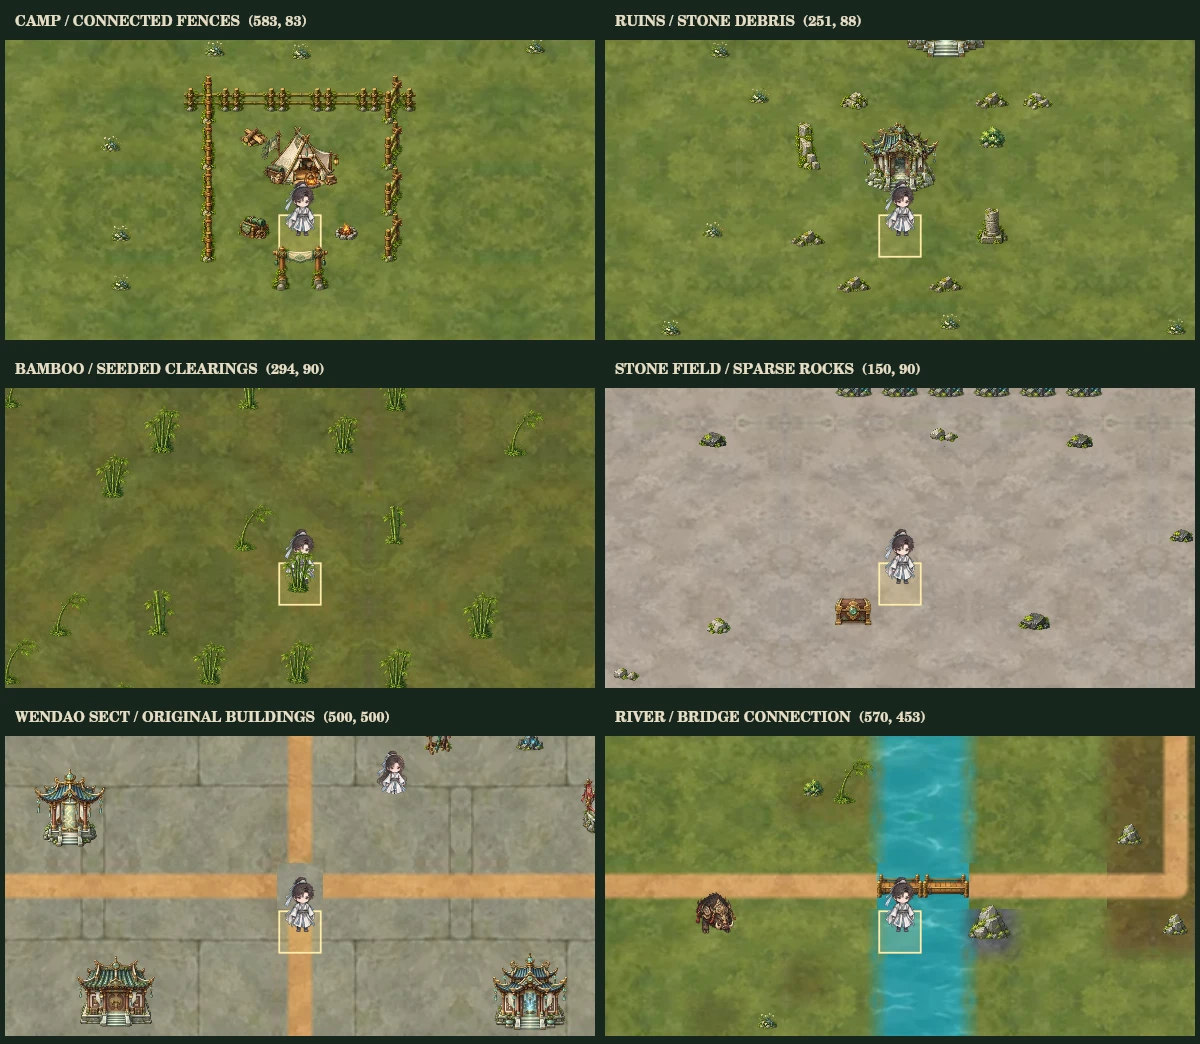
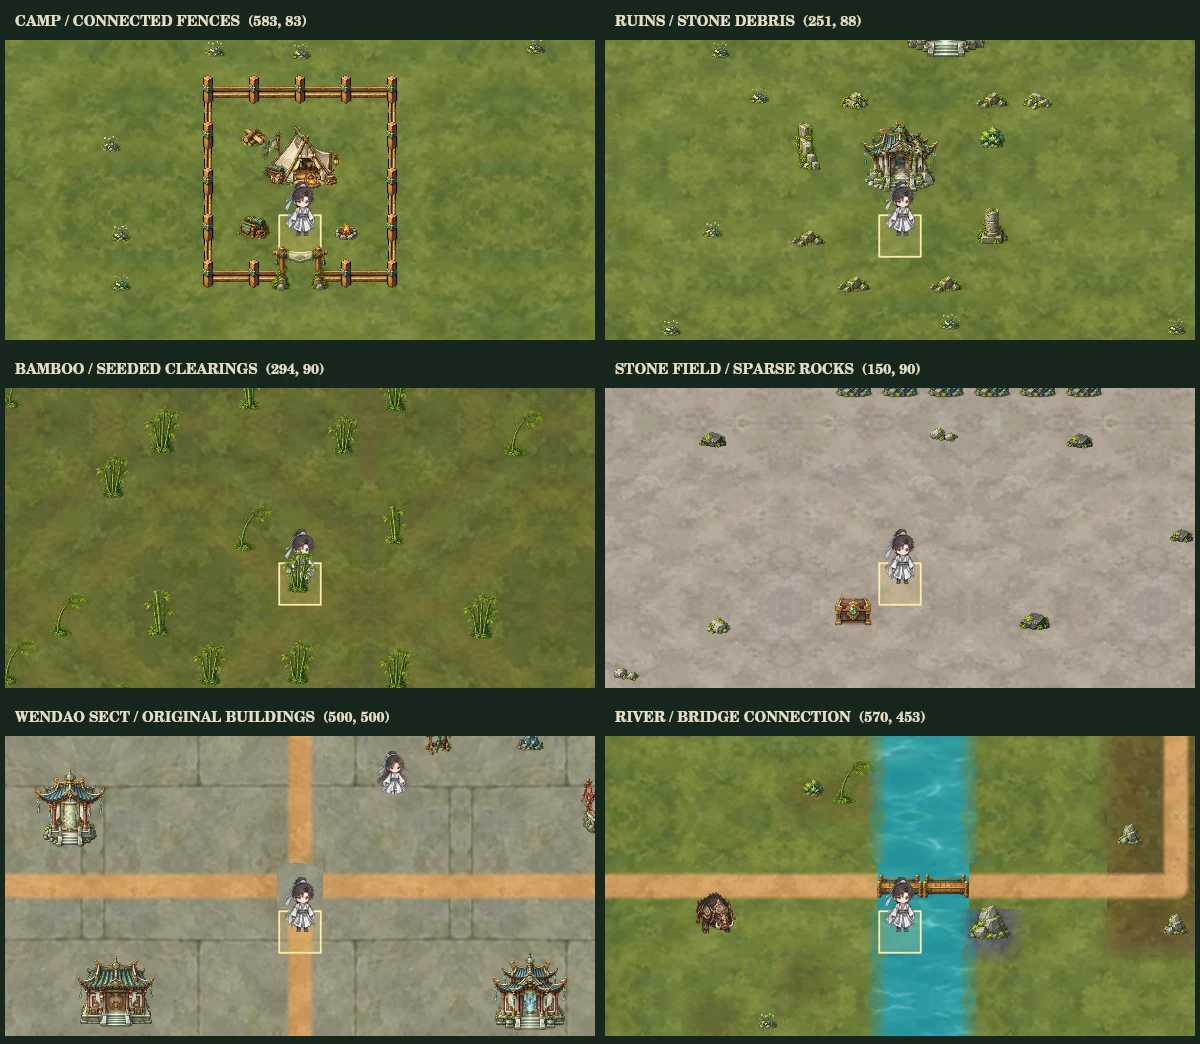
Regenerate modular fence and wall art with neighbour-based connections
Replace overlapping complete fence/wall panels with newly generated centre posts, four half-arms and low joints. Resolve all sixteen cardinal connection states from adjacent cells: match materials, connect gate sides along the correct axis, omit tall wall posts on straight runs and retract absent arms. Deduplicate corners and use a one-cell viewport halo to preserve connections across camera/chunk boundaries while respecting fog. Complete camp front fencing around its open gate and sect wall connections beside the four entrances.

Add two transparent 384x256 WebP atlases (71,586 bytes combined), final generation prompts, 32-state artwork previews and native Canvas seam checks. Preserve all fifteen original building images and existing ground materials.

Validation: all 1,854 tests passed; code audit, static version check and diff check passed. Both materials' N/S and E/W pixel seams have solid coverage; mirrored ground seam maximum difference remains zero.

Changed region(s): [[0.1542, 0.0613, 0.3392, 0.2759]]

diff --git a/public/world/world-scenery.js b/public/world/world-scenery.js
@@ -6,6 +6,25 @@
   const ROADS=new Set(['road','bridge','broken-bridge']),WATER=new Set(['water','ocean']);
   const DRY=new Set(['grass','courtyard','mountain','bamboo','forest','desert','snow','swamp','stone','volcano','beach']);
   const isSite=o=>['building','structure','realm'].includes(o.kind);
+  const isBarrier=p=>p.prop==='fence'||p.prop==='wall',cell=p=>Math.floor(p.x)+','+Math.floor(p.y);
+  // A block owns one centre and only the half-arms leading to compatible neighbours.
+  // Resolve after visibility/occupancy, but before viewport clipping (one-cell halo).
+  function connect(items){
+    const nodes=new Map(),unique=[];
+    for(const p of items){
+      if(isBarrier(p)||p.prop==='gate'){const k=cell(p);if(nodes.has(k))continue;nodes.set(k,p);}
+      unique.push(p);
+    }
+    return unique.map(p=>{
+      if(!isBarrier(p))return p;
+      let mask=0;
+      for(let i=0;i<4;i++){
+        const [dx,dy]=STEPS[i],n=nodes.get((Math.floor(p.x)+dx)+','+(Math.floor(p.y)+dy));
+        if(n?.prop===p.prop||n?.prop==='gate'&&((['east','west'].includes(n.direction)?5:10)&(1<<i)))mask|=1<<i;
+      }
+      return {...p,mask,post:p.prop==='fence'||mask!==5&&mask!==10};
+    });
+  }
   function create(world){
     const W=world;
     function topology(x,y,t,events={},visible=()=>true){
@@ -43,8 +62,8 @@
         for(const item of items){item.x+=((h>>>8)%101/100-.5)*.3;item.y+=((h>>>17)%101/100-.5)*.2;}
       }
       // Sect walls and gates have actual north/east/south/west illustrations.
-      if(Math.abs(dx)===r&&Math.abs(dy)<=r&&Math.abs(dy)>1&&t==='courtyard')add('wall',46,dx>0?'east':'west');
-      if(Math.abs(dy)===r&&Math.abs(dx)<=r&&Math.abs(dx)>1&&t==='courtyard')add('wall',46,dy>0?'south':'north');
+      if(Math.abs(dx)===r&&Math.abs(dy)<=r&&dy!==0&&t==='courtyard')add('wall',40);
+      if(Math.abs(dy)===r&&Math.abs(dx)<=r&&dx!==0&&t==='courtyard')add('wall',40);
       if((Math.abs(dx)===r&&dy===0)||(Math.abs(dy)===r&&dx===0))add('gate',66,dx===r?'east':dx===-r?'west':dy===r?'south':'north');
       if(t==='courtyard'&&Math.abs(dx)>=6&&Math.abs(dx)<=8&&Math.abs(dy)>=6&&Math.abs(dy)<=8&&(dx+dy)%2===0)add('garden',38);
       if(t==='courtyard'&&((Math.abs(dx)===8&&dy%4===0)||(Math.abs(dy)===8&&dx%4===0)))add('lantern',29);
@@ -56,15 +75,16 @@
       // Every existing building has one front-facing image. Its door and surrounding
       // layout stay south-facing; only fences, gates and other props have variants.
       const turn=0;
-      const add=(prop,dx,dy,size=34,facing='south',joinDirection=null)=>{
+      const add=(prop,dx,dy,size=34,facing='south')=>{
         for(let i=0;i<turn;i++){const a=dx;dx=-dy;dy=a;}
         const x=o.x+dx,y=o.y+dy,tx=Math.floor(x+.5),ty=Math.floor(y+.5);
         if(!W.inside(tx,ty)||!DRY.has(W.terrain(tx,ty,events))||W.terrain(tx,ty,events)==='road'||W.objectAt(tx,ty))return;
-        items.push({x:x+.5,y:y+.6,prop,size,direction:['fence','gate','wall','broken-wall','pillar','rubble','supplies'].includes(prop)?DIRECTIONS[(DIRECTIONS.indexOf(facing)+turn)%4]:null,...(joinDirection?{joinDirection}:{}),owner:o.id});
+        items.push({x:x+.5,y:y+.6,prop,size,direction:['gate','broken-wall','pillar','rubble','supplies'].includes(prop)?DIRECTIONS[(DIRECTIONS.indexOf(facing)+turn)%4]:null,owner:o.id});
       };
       if(subtype==='camp'){
-        for(const x of [-2,-1,0,1,2])add('fence',x,-2,46,'north',x===-2?'west':x===2?'east':null);
-        for(const y of [-1,0,1]){add('fence',-2,y,46,'west');add('fence',2,y,46,'east');}
+        for(const x of [-2,-1,0,1,2])add('fence',x,-2,40);
+        for(const y of [-1,0,1]){add('fence',-2,y,40);add('fence',2,y,40);}
+        for(const x of [-2,-1,1,2])add('fence',x,2,40);
         add('gate',0,2,54);add('supplies',-1,1,31);add('fire',1,1,24);add('logs',-1,-1,27);
       }else if(subtype==='ruins'){
         add('broken-wall',-2,-1,45,'west');add('broken-wall',2,-1,43,'east');
@@ -96,14 +116,15 @@
         const x=Math.floor(item.x),y=Math.floor(item.y),k=W.key(x,y);
         if(visible(x,y)&&!occupied.has(k)){occupied.add(k);items.push(item);}
       }
-      for(let y=Math.max(0,bounds.y);y<Math.min(W.SIZE,bounds.y+bounds.h);y++)for(let x=Math.max(0,bounds.x);x<Math.min(W.SIZE,bounds.x+bounds.w);x++){
-        if(!visible(x,y)||reserved.has(W.key(x,y)))continue;
-        items.push(...ambient(x,y,W.terrain(x,y,events),events));
+      for(let y=Math.max(0,bounds.y-1);y<Math.min(W.SIZE,bounds.y+bounds.h+1);y++)for(let x=Math.max(0,bounds.x-1);x<Math.min(W.SIZE,bounds.x+bounds.w+1);x++){
+        if(!visible(x,y))continue;
+        const plants=ambient(x,y,W.terrain(x,y,events),events);
+        items.push(...(reserved.has(W.key(x,y))?plants.filter(p=>p.prop==='wall'||p.prop==='gate'):plants));
       }
-      return items.filter(p=>p.x>=bounds.x&&p.x<bounds.x+bounds.w&&p.y>=bounds.y&&p.y<bounds.y+bounds.h);
+      return connect(items).filter(p=>p.x>=bounds.x&&p.x<bounds.x+bounds.w&&p.y>=bounds.y&&p.y<bounds.y+bounds.h);
     }
     return Object.freeze({world,topology,ambient,site,inBounds});
   }
-  const api=Object.freeze({DIRECTIONS,STEPS,create});
+  const api=Object.freeze({DIRECTIONS,STEPS,isBarrier,connect,create});
   if(typeof module==='object'&&module.exports)module.exports=api;else root.QAGridWorldScenery=api;
 })(globalThis);

diff --git a/public/world/world-art.js b/public/world/world-art.js
@@ -4,7 +4,7 @@
   const base='/assets/world-map/ai/';
   const buildings=['meditation','forge','contract','vault','rank','duel','raid','watchtower','shrine','ruins','camp','realm-spring','realm-array','realm-sword','realm-star'];
   const directions=Object.freeze(['north','east','south','west']);
-  const sources=Object.freeze(Object.fromEntries([...buildings,'ground-atlas','props-atlas','creatures-atlas',...directions.map(d=>'scenery-'+d+'-atlas'),'ambient-atlas','boats-atlas','creatures-north','creatures-east','creatures-west'].map(id=>[id,base+id+'.webp'])));
+  const sources=Object.freeze(Object.fromEntries([...buildings,'ground-atlas','props-atlas','creatures-atlas',...directions.map(d=>'scenery-'+d+'-atlas'),'ambient-atlas','boats-atlas','creatures-north','creatures-east','creatures-west','fence-connectors-atlas','wall-connectors-atlas'].map(id=>[id,base+id+'.webp'])));
   const sceneryProps=Object.freeze(['fence','gate','wall','broken-wall','pillar','rubble','bridge','supplies']);
   const props=['bamboo','tree','rock','volcano','flowers','shrub','reeds','herb','ore','chest','lantern','wall-h','wall-v','gate','garden','boat','meteor','shield','altar','sealed'];
   const creatures=['靈狼','玄甲山豬','竹林靈狼','青竹蛇','山魈','妖藤','沙蠍','荒漠蜥蜴','巖甲獸','石靈','赤焰獸','熔岩蜥蜴','霜羽鷹','雪狼','毒蟾','澤蛇','潮汐蟹','海岸靈龜','古陣守衛','靈獸'];
@@ -17,8 +17,22 @@
   function directional(name,direction='south',size=40){
     direction=compass(direction);
     if(name==='boat')return sheet('boats-atlas',Math.max(0,['south','north','east','west'].indexOf(direction)),4,size,size);
+    if(name==='fence'||name==='wall')return sheet(name+'-connectors-atlas',1+Math.max(0,directions.indexOf(direction)),3,size,size);
     const sprite=sheet('scenery-'+(directions.includes(direction)?direction:'south')+'-atlas',Math.max(0,sceneryProps.indexOf(name)),4,size,size);
     sprite.anchor=['fence','wall','broken-wall','bridge','rubble'].includes(name)?.55:name==='gate'?.8:.87;return sprite;
+  }
+  function barrierParts(p){
+    const wall=p.prop==='wall',image=p.prop+'-connectors-atlas',mask=(p.mask||0)&15,parts=[];
+    const add=(cell,dx,dy,w,h)=>{const sprite=sheet(image,cell,3,w,h);sprite.anchor=0;parts.push({sprite,dx,dy});};
+    // E/W tips overlap by one pixel at the shared cell edge; N/S also overlap
+    // the projected height of the wall/rails. No end-post is baked into an arm.
+    if(mask&1)add(1,0,wall?-34:-32,wall?10:7,wall?34:32);
+    if(mask&8)add(4,-10,wall?-15:-14,22,wall?15:10);
+    if(mask&2)add(2,10,wall?-15:-14,22,wall?15:10);
+    if(mask&4)add(3,0,wall?-14:-12,wall?10:7,wall?34:32);
+    const post=!wall||mask!==5&&mask!==10;
+    add(post?0:5,0,wall?(post?-24:-14):-24,wall?(post?12:10):9,wall?(post?25:15):25);
+    return parts;
   }
   const scenery=p=>ambientProps.includes(p.prop)&&!p.direction?ambientProp(p.prop,p.size):p.direction?directional(p.prop,p.direction,p.size):prop(p.prop,p.size);
   function monster(o){
@@ -40,6 +54,6 @@
   function bounds(o,sprite=object(o)){
     return{x:(o.x+.5)*40-sprite.w/2,y:(o.y+.5)*40-sprite.h*sprite.anchor,w:sprite.w,h:sprite.h};
   }
-  const api=Object.freeze({sources,directions,sceneryProps,ambientProps,ambientProp,compass,buildings:Object.freeze(buildings),props:Object.freeze(props),creatures:Object.freeze(creatures),terrain:Object.freeze(terrain),sheet,prop,directional,scenery,monster,object,bounds});
+  const api=Object.freeze({sources,directions,sceneryProps,ambientProps,ambientProp,compass,buildings:Object.freeze(buildings),props:Object.freeze(props),creatures:Object.freeze(creatures),terrain:Object.freeze(terrain),sheet,prop,directional,barrierParts,scenery,monster,object,bounds});
   if(typeof module==='object'&&module.exports)module.exports=api;else root.QAGridWorldArt=api;
 })(globalThis);

diff --git a/public/world/world-renderer.js b/public/world/world-renderer.js
@@ -95,8 +95,11 @@ export class WorldRenderer {
     }
   }
   drawScenery(p){
+    if(Scenery.isBarrier(p)){
+      for(const part of Art.barrierParts(p))this.imageSprite(part.sprite,p.x*TILE+part.dx,p.y*TILE+part.dy);
+      return;
+    }
     this.imageSprite(Art.scenery(p),p.x*TILE,p.y*TILE);
-    if(p.joinDirection)this.imageSprite(Art.directional(p.prop,p.joinDirection,p.size),p.x*TILE,p.y*TILE);
   }
   decoration(x,y,t){
     for(const p of this.sceneryModel().ambient(x,y,t,this.data?.events))this.drawScenery(p);

diff --git a/public/assets/world-map/ai/barrier-prompts.md b/public/assets/world-map/ai/barrier-prompts.md
@@ -1,0 +1,29 @@
+# 柵欄與圍牆連接零件
+
+使用內建 `image_gen` 生成，參考既有修仙地景圖集的材質；連接方式由程式依相鄰格決定。十五棟建築圖片沒有更動。
+
+兩張正式 WebP 各為 384 × 256，三欄兩列、每格 128 × 128，quality 78，透明背景。順序為中心柱、北向半段、東向半段、南向半段、西向半段、低接頭。來源圖各為 1536 × 1024；來源 SHA-256、檔名及檔案大小見 `manifest.json`。柵欄採用最後修訂結果，四個方向格僅有橫桿，沒有烘焙柱子。
+
+打包參數：`gridColumns: 3, gridRows: 2, componentParts: true, quality: 78`。零件裁緊後填滿 128 像素單格；繪製器再指定各自的大小、接地位置與重疊量，接縫不留透明空邊。半段端點只延伸至相鄰格的共同邊界，並由共用柱或低接頭遮蓋中心端點。
+
+連接遮罩：北=1、東=2、南=4、西=8；同材質連接，入口沿與通行方向垂直的兩側連接。柵欄始終保留柱子；圍牆遮罩 5、10 的直線段使用低接頭，其餘使用高柱。圖形不使用程式向量畫出替代插畫。
+
+## fence-connectors-atlas
+
+```text
+Use case: stylized-concept. Asset type: production TRANSPARENT component sprite atlas for the existing Chinese xianxia overhead grid RPG. The supplied image is STYLE REFERENCE ONLY. Keep softly painted natural aged materials, restrained jade and warm wood, fine readable outlines, fixed soft upper-left lighting, elevated orthographic camera around 55 degrees. NOT voxel, NOT pixel art, not isometric diamond. No text, letters, frames, grid lines, ground, landscape, foliage, ropes sticking out, or ground shadow. Actual alpha transparency. EXACT THREE columns and TWO rows, equal square cells, landscape 3:2 canvas. One completely separate centered component in each cell with at least 12 percent clear margins. These are BUILDING BLOCKS that software joins into a fence or low wall, not complete two-post fence panels. Strictly no upright posts in ANY directional arm cell. Arms must have clean square cut ends at both ends, consistent thickness, no tapered ends, no flared bases, no ornamental bits that change their bounding rectangle. Object fully visible and inside each cell. Subject material: simple warm aged brown timber fence with TWO horizontal rails at two different heights and a small square center post, modest muted jade fastening band on the post only. Make rail thickness consistent among every direction. ORDER LEFT TO RIGHT, TOP TO BOTTOM: CELL 1 one solitary upright SQUARE WOODEN POST, front and top visible, NO rails at all. CELL 2 ONLY a pair of wooden HALF-RAILS running from their near center joint toward NORTH / screen UP, actual back-side perspective, no upright posts. CELL 3 ONLY a pair of HALF-RAILS running from joint toward EAST / screen RIGHT, sideways horizontal profile, no posts. CELL 4 ONLY a pair of HALF-RAILS running from joint toward SOUTH / screen DOWN, actual front-side perspective, no posts. CELL 5 ONLY a pair of HALF-RAILS running from joint toward WEST / screen LEFT, sideways horizontal profile, no posts. CELL 6 a small low square wooden JOINT CAP only, no upright post, no rails. Every directional arm is exactly HALF of a single-cell span: one center-to-edge arm, never a whole multi-tile fence. Center post will be drawn separately and cover the inner joint. North and south are lengthwise along screen vertical; east and west lengthwise horizontal. Keep the two parallel rails recognizably the same fence in all four separately drawn views. Very readable at 40-pixel game scale. Do not add finial posts or endpoint pillars to the arms.
+```
+
+## wall-connectors-atlas
+
+```text
+Use case: stylized-concept. Asset type: production TRANSPARENT component sprite atlas for the existing Chinese xianxia overhead grid RPG. The supplied image is STYLE REFERENCE ONLY. Keep softly painted natural aged materials, restrained jade and warm wood, fine readable outlines, fixed soft upper-left lighting, elevated orthographic camera around 55 degrees. NOT voxel, NOT pixel art, not isometric diamond. No text, letters, frames, grid lines, ground, landscape, foliage, ropes sticking out, or ground shadow. Actual alpha transparency. EXACT THREE columns and TWO rows, equal square cells, landscape 3:2 canvas. One completely separate centered component in each cell with at least 12 percent clear margins. These are BUILDING BLOCKS that software joins into a fence or low wall, not complete two-post fence panels. Strictly no upright posts in ANY directional arm cell. Arms must have clean square cut ends at both ends, consistent thickness, no tapered ends, no flared bases, no ornamental bits that change their bounding rectangle. Object fully visible and inside each cell. Subject material: low continuous pale weathered gray STONE WALL with a narrow dark muted jade COPING cap, existing Taoist sect aesthetic, small squared masonry blocks and very restrained moss. Low and compact, not monumental. Constant wall height and thickness in all directions. ORDER LEFT TO RIGHT, TOP TO BOTTOM: CELL 1 ONE solitary square stone CENTER PIER with a flat small jade cap, NO wall arms. CELL 2 ONLY ONE narrow low stone HALF-WALL from center joint toward NORTH / screen UP, actual back-side perspective, NO pillars. CELL 3 ONLY ONE low stone HALF-WALL from joint toward EAST / screen RIGHT, horizontal side face, NO pillars. CELL 4 ONLY ONE narrow low stone HALF-WALL from joint toward SOUTH / screen DOWN, actual front-side perspective, NO pillars. CELL 5 ONLY ONE low stone HALF-WALL from joint toward WEST / screen LEFT, horizontal side face, NO pillars. CELL 6 ONE LOW SQUARE STONE JOINT with the same jade coping, shorter than the main pier, no arms. Every wall arm has flat open cut ends and the same height and color; NO widened base or tall end pillar. Software joins arms end to end and covers center intersections with the separately supplied pier; a straight run uses the low joint instead of a tall post. N/S arms lengthwise vertical on screen, E/W arms lengthwise horizontal. Perspective is painted independently for each direction, not a rotated image. Compact clean simple silhouettes at 40px.
+```
+
+## 柵欄最終修訂
+
+編輯輸入：最初生成的六格木柵欄零件圖。僅將第 2～5 格修正為沒有柱子的橫桿，保留獨立柱子與低接頭。
+
+```text
+Use case: precise-object-edit. Edit the attached transparent six-cell 3 columns by 2 rows wooden fence COMPONENT atlas. Preserve canvas size, equal cell layout, aged wood and jade color, illustration style and upper-left light. Critical correction: in cells 2, 3, 4, 5 REMOVE the short jade-banded upright connector post entirely, leaving ONLY the two parallel long wooden rail bars. NO vertical/end/middle support post of any kind may remain in those FOUR cells. Fill in the rail bars behind the removed post so the bars extend to a clean square-cut endpoint. Cell 2 north-facing pair of rails along screen vertical, cell 3 east-facing pair of rails along horizontal, cell 4 south-facing pair of rails along screen vertical, cell 5 west-facing pair of rails along horizontal. Every pair consists of only TWO UNCONNECTED straight wooden bars with empty transparent space between them and fully transparent surroundings. The bars will attach to the separately drawn post in game. Keep cell 1 the isolated tall post and cell 6 the low square joint cap exactly the same. Remove all colored fog, glow, background color and cast shadows around every component; actual clean transparent alpha right up to each object silhouette. No text, grid or borders. Do not add any supports or posts back to cells 2-5.
+```

diff --git a/public/assets/world-map/ai/README.md b/public/assets/world-map/ai/README.md
@@ -22,14 +22,15 @@
 
 - 單棟建築檔案為 256 × 256 WebP，畫面顯示 72～80 邏輯像素，約 1.8～2 格；圖檔中的透明留白會讓實際輪廓略小。
 - 妖獸顯示 44 邏輯像素，採集物 34～38 像素，與角色大小相近。
-- 圖集每格 128 × 128，最大邊 640 像素。正式地圖共 27 張小型 WebP（不含既有主角動畫），完整大小見 `manifest.json`。
+- 圖集每格 128 × 128，最大邊 640 像素。正式地圖共 29 張小型 WebP（不含既有主角動畫），完整大小見 `manifest.json`。
+- 柵欄、圍牆使用新生成的 `fence-connectors-atlas.webp`、`wall-connectors-atlas.webp`（各 384 × 256），拆成中心柱及北／東／南／西半段。依相鄰同材質地格自動決定 16 種連接狀態，沒有鄰格的方向不畫橫桿，轉角／T 字／十字不再疊整片柵欄。柵欄保留中心柱，直線石牆改用低接頭；入口只沿兩側連接，不連斜角或不同材質。素材與最終修訂提示詞見 `barrier-prompts.md`。
 - 竹林以種子散布三種竹叢，混入灌木並保留空地；石域以鄰格優先規則放置三種散石，八方向相鄰格不會同時放石頭，跨區塊也一致。
 - 營地配置相連柵欄、開放入口、物資、柴堆與營火；遺跡有斷牆、石柱與碎石。鍛造坊、契器閣與仙榜分別配置武器架、方尖碑及卷軸架。周邊避開道路和其他物件，與建築的原始正門方向一致。
 - 地面使用簡化後的低細節材質，以四乘四地格延伸一張紋理，避免每小格重複碎紋；規格與生成提示詞見 `ground-prompts.md`。
 - 透明背景、接地位置、前後遮擋與圖片超出地格後的點選共用 `public/world/world-art.js`。透明像素不截取旁邊地格的點擊。
-- `manifest.json` 列出尺寸、檔案大小、來源名稱與來源 SHA-256；生成提示詞在 `prompts.md`、`scenery-prompts.md` 和 `ground-prompts.md`。
+- `manifest.json` 列出尺寸、檔案大小、來源名稱與來源 SHA-256；生成提示詞在 `prompts.md`、`scenery-prompts.md`、`ground-prompts.md` 和 `barrier-prompts.md`。舊四向地景圖集的整段柵欄／圍牆格已不再用於遊戲中的連接結構，其他入口、斷牆、橋梁等格繼續使用。
 - 地形、建築座標、種子、通行與獎勵仍由原本的世界生成器和伺服器決定。
 
 地圖插畫透過 `drawImage` 繪製；格線／選取、路線、傷害文字、血條及小地圖資訊標記仍是互動資訊。沒有另外生成逐格資料庫資料。
 
-重新壓縮原始圖：安裝開發工具 `sharp`，提供 `{"assets":[{"id":"meditation","path":"/path/original.png"}]}` 格式的 JSON 給 `node scripts/pack-world-ai-art.cjs /path/source-manifest.json`。可加 `--merge` 保留其他素材。圖集可提供 `gridColumns`、`gridRows`、`rows`、`columns`、`inset` 與 `quality`，支援裁切部分列與獨立壓縮品質。原始 PNG 保留於生成結果，正式網站只載入小型 WebP。
+重新壓縮原始圖：安裝開發工具 `sharp`，提供 `{"assets":[{"id":"meditation","path":"/path/original.png"}]}` 格式的 JSON 給 `node scripts/pack-world-ai-art.cjs /path/source-manifest.json`。可加 `--merge` 保留其他素材。圖集可提供 `gridColumns`、`gridRows`、`rows`、`columns`、`inset` 與 `quality`，支援裁切部分列與獨立壓縮品質。連接零件使用 `componentParts: true` 裁緊後填滿單格，端點不加透明留白，由繪製器指定零件的實際尺寸及位置。原始 PNG 保留於生成結果，正式網站只載入小型 WebP。

diff --git a/docs/grid-world.md b/docs/grid-world.md
@@ -15,6 +15,8 @@
 
 地景裝飾也由相同種子決定：竹林混合三種竹叢與灌木，石域的散石保留相鄰空格；營地有接起轉角的柵欄、物資、柴堆及營火，遺跡有斷牆、石柱與碎石。周邊配置避開道路與其他物件，不新增碰撞資料。十五棟建築維持原本的單一正面圖片和正門方向；妖獸、船隻、柵欄、城牆、城門及橋梁依方向選擇圖片。道路依鄰格連接，地面材質跨格延伸並在不同生態的交界混合。
 
+柵欄與圍牆以格為單位自動連接，北／東／南／西各占一位元，形成 16 種狀態。相鄰同材質地格互相伸出半段；孤立格只剩柱子，直線圍牆省去高柱，轉角、T 字和十字使用單一中心接點。城門與營地入口依通道方向銜接兩側，保留通道；不連接斜角或不同材質。先讀取一格外圈再裁切畫面，避免捲動、跨區塊或迷霧揭露時接錯。
+
 ## 戰棋規則與養成投影
 
 - 移動每回合一次、最多兩格，按實際路徑計算；不走斜線，不穿過敵人或障礙。

diff --git a/docs/design/world-scenery/README.md b/docs/design/world-scenery/README.md
@@ -6,4 +6,8 @@
 
 `native/validation.json` 記錄載入圖片數、地景數量、快取上限與像素驗證。相同時間重繪的像素一致；鏡像材質的邊界最大像素差為 0。
 
+`native/connections.webp` 顯示柵欄、圍牆各 16 種四向連接狀態。畫面中的每個地格只繪製一個中心與必要的半段；在獨立透明畫布上檢查兩種材質的橫向、縱向共享邊界，確定沒有透明裂縫。測試也涵蓋移除鄰格、跨區塊／畫面邊界、迷霧及入口朝向。
+
+![四向連接狀態](native/connections.webp)
+
 可安裝選用的 `@napi-rs/canvas` 後執行 `node scripts/capture-world-scenery-native.cjs` 重現。具備 Playwright Chromium 的環境也可執行既有的 `scripts/capture-world-scenery.cjs` 取得瀏覽器預覽。
